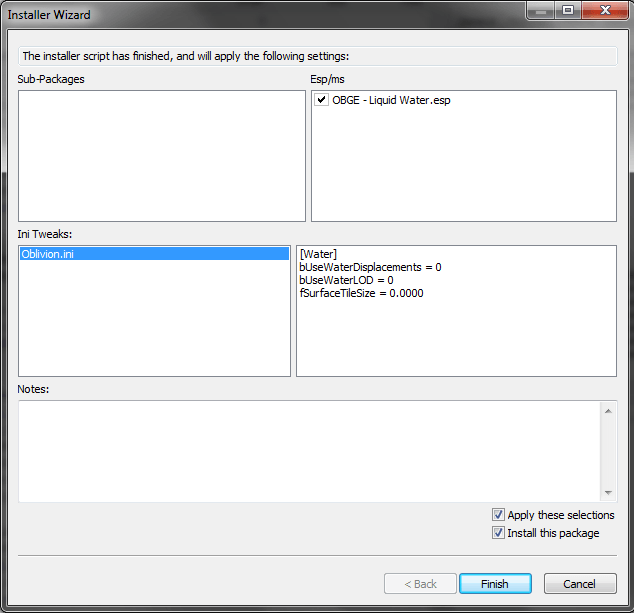
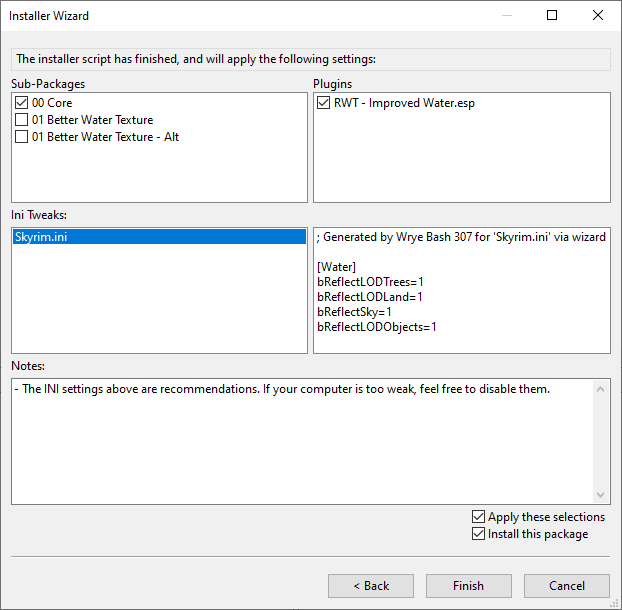
docs: Update Wizard images
Also made them actually appear in the technical readme and got rid of
two unnecessary images (installers-wizard-1.jpg and
installers-wizard-2.jpg).

Changed region(s): [[0.0, 0.0, 1.0, 1.0]]

diff --git a/Mopy/Docs/Wrye Bash Technical Readme.html b/Mopy/Docs/Wrye Bash Technical Readme.html
@@ -93,20 +93,33 @@
 <p>There is a similar <a href="https://www.nexusmods.com/oblivion/mods/34240">BAIN Wizard Syntax for EmEditor</a> syntax highlighter for EmEditor created by broken85.
 
 <h3 id="wizards-dialog">Dialogues</h3>
-<p>You may use a number of different dialogues in a wizard. The available dialogs are described in this section.
-
-<p><dfn>SelectOne</dfn> - This <a href="../bash/images/readme/selectone.jpg">dialog</a> gives you a list of options, with the option to select one of them.  It will be shown when a <a href="#wizardsSelectOne">SelectOne</a> keyword is used.  Each option can display an image associated with it, and a description as well.  To see a larger version of the image displayed, either right click or middle click on the image.  The wizard can specify a default answer, and if you are running it as an Auto-Wizard, then this page will be skipped, using the default option.
-
-<p><dfn>SelectMany</dfn> - This <a href="../bash/images/readme/selectmany.jpg">dialog</a> gives you a list of options, with the option to select one or more of them, or even none of them.  It will be shown when a <a href="#wizardsSelectMany">SelectMany</a> keyword is used.  Each option can display an image associated with it, and a description as well.  To see a larger version of the image displayed, either right click or middle click on the image.  The wizard can specify default options, and if you are running it as an Auto-Wizard, then this page will be skipped, using the default options.
-
-<p><dfn>Cancel</dfn> - This <a href="../bash/images/readme/cancel.png">dialog</a> will be shown if the wizard cancels execution for some reason, activated by the <a href="#wizardsCancel">Cancel</a> keyword.  If a reason is given, it will be displayed.
-
-<p><dfn>Error</dfn> - This <a href="../bash/images/readme/error.jpg">dialog</a> will be shown if the wizard encounters an error in the wizard file.  The wizard will then quit.
-
-<p><dfn>Finish</dfn> - This <a href="../bash/images/readme/finish.png">dialog</a> will be shown at the end of the wizard, to show you which sub-packages, esps, and esms will be selected.  It will be shown either when the end of a wizard file is reached, or if the <a href="#wizardsReturn">Return</a> keyword is used.  It also shows what INI Tweaks will be applied, and also serves as a place for any extra notes from the mod author to be displayed.
-
-<p><dfn>Version Warning</dfn> - This <a href="../bash/images/readme/versions.png">dialog</a> is displayed if the user's system doesn't meet the package's game, script extender or graphics extender requirements.
-
+    <p>You may use a number of different dialogues in a wizard. The available dialogs are described in this section.</p>
+    <ul>
+        <li>
+            <p><dfn>SelectOne</dfn> - This dialog displays a list of options, but only one can be selected. It will be shown when a <a href="#wizardsSelectOne">SelectOne</a> keyword is used.  Each option can display an image associated with it, and a description as well.  To see a larger version of the image displayed, either right click or middle click on the image.  The wizard can specify a default answer, and if you are running it as an Auto-Wizard, then this page will be skipped, using the default option.</p>
+            <img alt="SelectOne Dialog" src="../bash/images/readme/selectone.png"/>
+        </li>
+        <li>
+            <p><dfn>SelectMany</dfn> - This dialog displays a list of options, and any combination can be selected (including none at all). It will be shown when a <a href="#wizardsSelectMany">SelectMany</a> keyword is used.  Each option can display an image associated with it, and a description as well.  To see a larger version of the image displayed, either right click or middle click on the image.  The wizard can specify default options, and if you are running it as an Auto-Wizard, then this page will be skipped, using the default options.</p>
+            <img alt="SelectMany Dialog" src="../bash/images/readme/selectmany.png"/>
+        </li>
+        <li>
+            <p><dfn>Cancel</dfn> - This dialog will be shown if the wizard cancels execution for some reason, activated by the <a href="#wizardsCancel">Cancel</a> keyword. If a reason is given, it will be displayed.</p>
+            <img alt="Cancel Dialog" src="../bash/images/readme/cancel.png"/>
+        </li>
+        <li>
+            <p><dfn>Error</dfn> - This dialog will be shown if the wizard encounters an error in the wizard file. The wizard will then quit.</p>
+            <img alt="Error Dialog" src="../bash/images/readme/error.png"/>
+        </li>
+        <li>
+            <p><dfn>Finish</dfn> - This dialog will be shown at the end of the wizard, to show you which sub-packages, esps, and esms will be selected.  It will be shown either when the end of a wizard file is reached, or if the <a href="#wizardsReturn">Return</a> keyword is used.  It also shows what INI Tweaks will be applied, and also serves as a place for any extra notes from the mod author to be displayed.</p>
+            <img alt="Finish Dialog" src="../bash/images/readme/finish.png"/>
+        </li>
+        <li>
+            <p><dfn>Version Warning</dfn> - This dialog is displayed if the user's system doesn't meet the package's game, script extender or graphics extender requirements. These can be specified via the <a href="#wizardsRequireVersions">RequireVersions</a> keyword.</p>
+            <img alt="Version Warning Dialog" src="../bash/images/readme/versions.png"/>
+        </li>
+    </ul>
 
 <h3 id="wizards-language">Language Structure</h3>
 <p>Each line of a Wizard contains one statement. To carry a statement across multiple lines, end each line of the statement with a backslash <code>\</code>. This will cause BAIN to read the next line as if it were part of the first.
